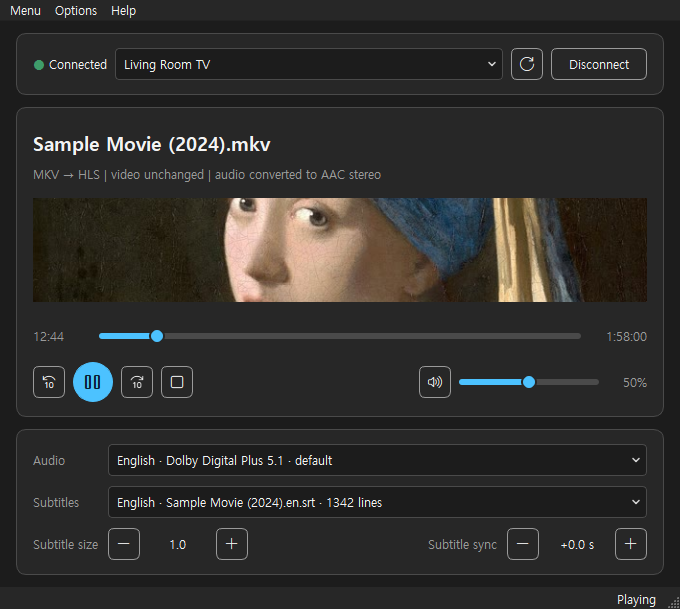
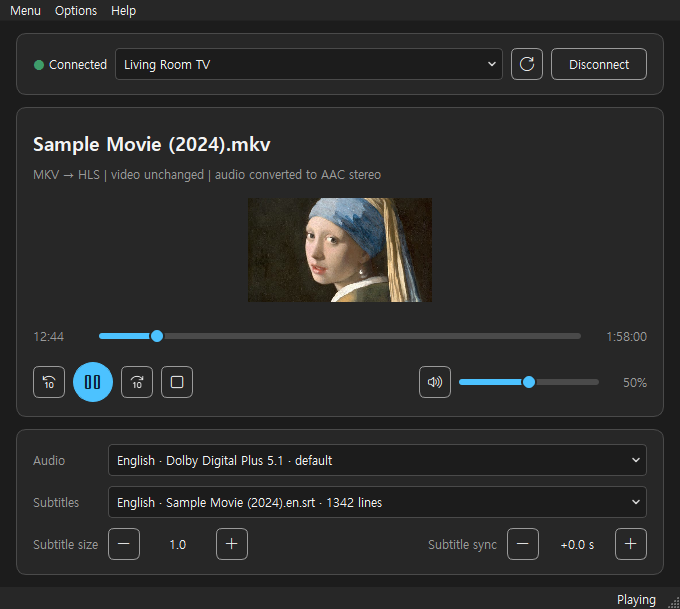
feat: keep the thumbnail's aspect without cropping, trim letterbox bars, extract up to 1920px (D119)

Changed region(s): [[0.3088, 0.312, 0.9574, 0.4992], [0.0309, 0.312, 0.1853, 0.4992], [0.2162, 0.3432, 0.3088, 0.4992]]

diff --git a/core/thumbs.py b/core/thumbs.py
@@ -1,9 +1,10 @@
-"""썸네일 (F9-12, D097, D101, D102): 표지가 있으면 표지, 없으면 영상 길이 10% 지점 한 장면.
-가로 320px JPEG 바이트. 임시 폴더에 만들어 읽은 뒤 바로 지워 캐시에 남기지 않는다.
+"""썸네일 (F9-12, D097, D101, D102, D119): 표지가 있으면 표지, 없으면 영상 길이 10% 지점 한 장면.
+장면은 위아래 검은 띠를 잘라 냄. 가로 최대 1920px(원본이 작으면 원본) JPEG 바이트. 임시 폴더에 만들어 읽은 뒤 바로 지워 캐시에 남기지 않는다.
 실패하면 None (화면은 글자만)."""
 from __future__ import annotations
 
 import logging
+import re
 import subprocess
 import tempfile
 from pathlib import Path
@@ -13,7 +14,7 @@ from .probe import MediaInfo
 from .proc import NO_WINDOW
 
 _LOGGER = logging.getLogger(__name__)
-THUMB_W = 320
+THUMB_W = 1920   # 큰 모니터에서도 선명하게 (D119)
 SCENE_AT = 0.10       # 처음 몇 초는 검은 화면·로고인 경우가 많음
 
 
@@ -27,10 +28,11 @@ def thumbnail(info: MediaInfo, timeout: float = 30.0) -> bytes | None:
                 "-map", f"0:{info.video.index}"]
     else:
         return None
+    crop = _bars(cmd, info, timeout) if info.cover is None else ""
     try:
         with tempfile.TemporaryDirectory(prefix="castplayer-thumb-") as tmp:
             out = Path(tmp) / "thumb.jpg"
-            r = subprocess.run(cmd + ["-frames:v", "1", "-vf", f"scale={THUMB_W}:-2",
+            r = subprocess.run(cmd + ["-frames:v", "1", "-vf", f"{crop}scale='min({THUMB_W},iw)':-2",
                                       "-q:v", "4", str(out)],
                                capture_output=True, timeout=timeout,
                                creationflags=NO_WINDOW, check=False)
@@ -42,5 +44,27 @@ def thumbnail(info: MediaInfo, timeout: float = 30.0) -> bytes | None:
     except (OSError, subprocess.TimeoutExpired) as err:
         _LOGGER.warning("썸네일 만들기 실패: %s", err)
         return None
-    _LOGGER.info("썸네일: %s", "표지" if info.cover is not None else f"{SCENE_AT:.0%} 지점")
+    _LOGGER.info("썸네일: %s%s", "표지" if info.cover is not None else f"{SCENE_AT:.0%} 지점",
+                 " (검은 띠 자름)" if crop else "")
     return data
+
+
+def _bars(cmd: list[str], info: MediaInfo, timeout: float) -> str:
+    """위아래 검은 띠를 자르는 필터 앞부분("crop=…,"), 없으면 "" (D119).
+    가로 전체 너비이고 남는 높이가 절반 이상일 때만 — 어두운 장면을 지나치게 자르지 않음."""
+    v = info.video
+    if v is None or not v.width or not v.height:
+        return ""
+    try:
+        r = subprocess.run(cmd[:1] + ["-v", "info"] + cmd[3:] + [
+            "-frames:v", "5", "-vf", "cropdetect=limit=24:round=2:reset=0", "-f", "null", "-"],
+            capture_output=True, timeout=timeout, creationflags=NO_WINDOW, check=False)
+    except (OSError, subprocess.TimeoutExpired):
+        return ""
+    found = re.findall(r"crop=(\d+):(\d+):(\d+):(\d+)", r.stderr.decode("utf-8", "replace"))
+    if not found:
+        return ""
+    w, h, x, y = map(int, found[-1])
+    if x > 8 or w < v.width - 16 or not v.height // 2 <= h < v.height:
+        return ""
+    return f"crop=iw:{h}:0:{y},"

diff --git a/tools/cast_test.py b/tools/cast_test.py
@@ -2159,11 +2159,19 @@ def _thumb_cases(check: Callable[[str, bool, str], None]) -> None:
             r, g, b = (int(hexcol[i:i + 2], 16) for i in (1, 3, 5))
             return max((r, "red"), (g, "green"), (b, "blue"))[1]
 
-        check("F9-12 표지 있는 MP4 → 표지(빨강), 없는 MKV → 10% 지점 장면(초록), 가로 320px",
+        check("F9-12 표지 있는 MP4 → 표지(빨강), 없는 MKV → 10% 지점 장면(초록), 원본이 작으면 원본 크기 (D119)",
               got["plain.mkv"][0] is None and tone(got["plain.mkv"][2]) == "green"
               and got["cover.mp4"][0] is not None and tone(got["cover.mp4"][2]) == "red"
-              and got["plain.mkv"][1] == got["cover.mp4"][1] == 320,
+              and got["plain.mkv"][1] == 160 and got["cover.mp4"][1] == 64,
               f"{got}")
+
+        # F9-17: 위아래 검은 띠(320×120 내용을 320×180에) → 띠를 잘라 내용 비율
+        bars = "testsrc=size=320x120:rate=24:duration=6,pad=320:180:0:30:black"
+        run("-f", "lavfi", "-i", bars, "-c:v", "libx264", "-preset", "ultrafast", str(t / "bars.mkv"))
+        img = QImage.fromData(thumbs_mod.thumbnail(probe_mod.probe(t / "bars.mkv")) or b"")
+        ratio = img.width() / img.height() if img.height() else 0
+        check("F9-17 위아래 검은 띠를 잘라 내용 비율, 가로는 원본 크기 (D119)",
+              img.width() == 320 and abs(ratio - 320 / 120) <= 0.05, f"{img.width()}×{img.height()}")
 
         w, *_ = _gui()
         w._show_thumb((t / "cover.png").read_bytes())       # pylint: disable=protected-access
@@ -2175,7 +2183,12 @@ def _thumb_cases(check: Callable[[str, bool, str], None]) -> None:
         w.resize(680, w.minimumSizeHint().height() + 300)
         big = _wait_for(w.thumb_label.showing, 1.0)
         tw, th, fw = w.thumb_label.width(), w.thumb_label.height(), w.file_label.width()
+        r = w.thumb_label.target_rect()
+        fits = (r.width() <= tw and r.height() <= th and (r.width() == tw or r.height() == th)
+                and abs(r.width() / max(1, r.height()) - 1.0) <= 0.05)   # cover.png는 정사각형
         _close(w)
+        check("F9-17 창의 썸네일은 그림 비율 그대로, 자르지 않고 가로나 세로 최대 (D119)", fits,
+              f"그림 {r.width()}×{r.height()}, 칸 {tw}×{th}")
         check("F9-12 창이 작으면 썸네일 숨김, 남은 공간이 있으면 보임", small and big,
               f"작을 때 숨김 {small}, 클 때 보임 {big}")
         check("F9-15 윗칸 최소 높이는 글자 두 줄+여백, 늘리면 썸네일이 글자 아래를 가로·세로 가득",

diff --git a/ui/main_window.py b/ui/main_window.py
@@ -14,7 +14,7 @@ from pathlib import Path
 from typing import Callable
 from uuid import UUID
 
-from PySide6.QtCore import QByteArray, QLocale, QRectF, QSize, Qt, QTimer, Signal
+from PySide6.QtCore import QByteArray, QLocale, QRect, QRectF, QSize, Qt, QTimer, Signal
 from PySide6.QtGui import QColor, QFont, QFontMetrics, QIcon, QKeySequence, QPainter, QPixmap, QShortcut
 from PySide6.QtWidgets import (QApplication, QComboBox, QFileDialog, QFrame, QGridLayout,
                                QHBoxLayout, QLabel, QMainWindow, QMessageBox, QProgressBar,
@@ -114,7 +114,7 @@ def _plan_text(plan: Plan, info: MediaInfo) -> str:
 
 
 class _Cover(QWidget):
-    """썸네일: 받은 공간을 비율 유지로 가득 채우고 넘치는 가장자리는 가운데 기준으로 자름 (D118)."""
+    """썸네일: 그림 비율 그대로, 자르지 않고 받은 공간의 가로나 세로 최대까지. 나머지는 배경 (D119)."""
     MIN_H = 48                      # 이보다 낮으면 숨김 [AI]
 
     def __init__(self) -> None:
@@ -129,13 +129,20 @@ class _Cover(QWidget):
     def showing(self) -> bool:
         return self._src is not None and self.isVisible() and self.height() >= self.MIN_H
 
+    def target_rect(self) -> QRect:
+        """그림을 그릴 자리 (가운데)."""
+        if not self._src:
+            return QRect()
+        s = self._src.size().scaled(self.size(), Qt.AspectRatioMode.KeepAspectRatio)
+        return QRect((self.width() - s.width()) // 2, (self.height() - s.height()) // 2,
+                     s.width(), s.height())
+
     def paintEvent(self, _e) -> None:  # noqa: N802 (Qt)
         if not (self._src and self.height() >= self.MIN_H and self.width() > 0):
             return
-        pm = self._src.scaled(self.size(), Qt.AspectRatioMode.KeepAspectRatioByExpanding,
-                              Qt.TransformationMode.SmoothTransformation)
-        QPainter(self).drawPixmap(0, 0, pm, (pm.width() - self.width()) // 2,
-                                  (pm.height() - self.height()) // 2, self.width(), self.height())
+        p = QPainter(self)
+        p.setRenderHint(QPainter.RenderHint.SmoothPixmapTransform)
+        p.drawPixmap(self.target_rect(), self._src)
 
 
 class MainWindow(QMainWindow):

diff --git a/docs/PRD.md b/docs/PRD.md
@@ -186,6 +186,7 @@ Status: approved (2026-11-20) | 단계: 5 확정 | 갱신: 2026-11-20
 - 정상 흐름: Graphite(어둡게)/Paper(밝게) 테마, 기본은 시스템 색 모드를 따름. 옵션 → 테마(시스템/어둡게/밝게)로 바로 바뀌고 `config.json`에 저장 [U] (D076). 배치는 카드 세 개(기기 / 미디어 / 트랙), 여백 16px, 버튼·입력 높이 32px, 오른쪽 끝 한 선, 재생 버튼만 40px 강조색 원형 [U] (D076)
 - 썸네일: 파일에 표지(MP4 표지·MKV 첨부 그림, ffprobe의 attached_pic)가 있으면 표지, 없으면 영상 길이 10% 지점 한 장면. 미디어 카드 윗칸이 최소 높이의 2배 이상일 때만 파일 정보 왼쪽에 보이고, 작으면 글자만. HDR 색 변환 안 함 [U] (D097). 불러오기와 함께 뒤에서 만들어 재생을 기다리게 하지 않고, 실패하면 글자만(로그만), 가로 320px [AI] (D101). 캐시에 남기지 않음(임시 파일로 만들어 메모리로 읽고 바로 지움) [U] (D102)
 - 파일이 열린 윗칸 배치: 파일 이름·송출 방식 두 줄을 위에, 썸네일은 그 아래 남은 공간을 가로·세로 가득 채움(비율 유지, 넘치는 가장자리는 가운데 기준으로 자름). 윗칸 최소 높이는 글자 두 줄 + 위아래 여백 8px(파일 없음의 끌어다 놓기 영역도 같은 높이), 남은 공간이 48px 미만이면 썸네일 숨김. 위 "파일 정보 왼쪽"·"최소 높이의 2배 이상"·"윗칸 가운데"를 대신함 [U] (D118) · 48px [AI]
+- 썸네일 그림 (D118의 "가득 채움·자름"과 D101의 "가로 320px"을 대신함): 그림 비율을 지키고 자르지 않으며 남은 공간의 가로나 세로 중 먼저 닿는 쪽까지 키우고, 나머지는 배경색 여백(가운데 정렬). 영상 장면은 위아래 검은 띠를 ffmpeg `cropdetect`로 찾아 잘라 냄(가로 전체 너비이고 남는 높이가 원래의 절반 이상일 때만, 표지 그림은 자르지 않음). 가로 최대 1920px로 뽑고 원본이 작으면 원본 크기 [U] (D119) · 절반 기준 [AI]
 - 창 크기: 가로·세로 모두 조절. 세로로 늘어난 만큼은 미디어 카드 윗칸(파일 없음: 끌어다 놓기 영역 / 파일 있음: 파일 이름·송출 방식)만 커지고, 다른 카드·진행 막대·조작줄은 높이 고정. 최소 크기는 개편 전 창 높이, 최소 너비는 6개 언어 중 가장 긴 글자가 잘리지 않는 너비 [U] (D094, D095). 미디어 카드 높이는 파일 없음·불러오는 중·재생 중 어느 때나 같음 [U] (D091). 창이 클 때 파일 정보는 윗칸 가운데, 파일 이름은 조금 크게 [AI] (D096)
 - 기기 카드: 상태 점+글, 기기 목록(이름만, IP는 풍선 도움말), 다시 찾기 아이콘, 버튼 하나 — 고른 기기가 연결된 기기면 "연결 해제", 아니면 "연결" (메뉴의 연결 해제도 유지) [U]·규칙 [AI] (D076)
 - 미디어 카드: 파일 이름 굵게, 그 아래 송출 방식을 풀어 쓴 흐린 줄(예: "MKV → HLS 변환 | 영상 그대로 | 음성 AAC 2ch로 변환", 구분자는 세로 막대, 자세한 이유는 풍선 도움말). 파일이 없으면 끌어다 놓기 점선 영역과 강조색 [파일 열기] (미연결이면 비활성, 안내 "먼저 기기를 연결하세요"). 파일이 열린 화면에는 [파일 열기] 버튼이 없음 — 다른 파일은 메뉴 "파일 열기…"(Ctrl+O)·창 어디든 끌어다 놓기 [U] (D105). 불러오는 동안 진행 막대와 단계·%. 조작줄: −10초 / 재생·일시정지 / +10초 / 정지 … 음소거 아이콘 / 볼륨 / % [U] (D076, D093)
@@ -211,7 +212,8 @@ Status: approved (2026-11-20) | 단계: 5 확정 | 갱신: 2026-11-20
   - F9-15 [자동] Given 파일이 열림, 창 최소 크기 / When 세로로 300px 늘림 / Then 최소 크기에서 윗칸은 글자 두 줄+여백 높이이고 썸네일 숨김, 늘리면 썸네일이 글자 아래 남은 공간을 가로·세로 가득 채움 [U] (D118)
   - F9-16 [사람] 어둡게·밝게에서 새 배치(글자 위·썸네일 아래)의 정렬과 썸네일 자름이 자연스러운지 [U] (D118)
   - F9-12 [자동] Given 표지가 있는 시험 파일 / 표지 없는 시험 파일 / When 파일을 열고 창을 크게 함 / Then 표지 / 10% 지점 장면이 썸네일로 보이고, 창이 작으면 숨김. 썸네일 파일이 남지 않음 [U] (D097, D102)
-- 근거: D076, D091~D097, D101, D113, D114, D118
+  - F9-17 [자동] Given 위아래에 검은 띠를 넣은 시험 영상 / When 썸네일을 만듦 / Then 띠가 잘려 내용 비율(±0.05)이고 가로는 원본 크기(1920px 이하). 창에 보일 때 그림 비율이 그대로이고 잘리지 않음 [U] (D119)
+- 근거: D076, D091~D097, D101, D113, D114, D118, D119
 
 ### F10 화면 언어
 - 정상 흐름: 화면 언어 6개 — English, 한국어, 简体中文, 日本語, Español, Русский [U] (D079). 처음에는 Windows 표시 언어를 따르고, 6개에 없으면 English. 중국어는 간체만, 번체 Windows는 English [U] (D080) · [AI] (D086). 옵션 → 언어(맨 위 "시스템 설정 따르기", 각 언어는 자기 이름)로 고르면 다시 켜지 않아도 바로 바뀌고 `config.json`의 `language`에 저장 [U] (D085) · 메뉴 모양 [AI] (D086)
@@ -293,3 +295,4 @@ Status: approved (2026-11-20) | 단계: 5 확정 | 갱신: 2026-11-20
 | 2026-11-20 | F2 내장 자막 뒤에서 추출(3초 기다림, 추출 중 표시, 자동 선택될 때만 다시 불러오기, 중단 규칙), F2-11 고침·F2-12~14 추가, §2.3 자막 추출 단축 줄 삭제(D100 뒤집음). F5 자동 선택 언어가 화면 언어를 따름, F5-7 추가 | D107~D112 |
 | 2026-11-20 | F9 15개 밖 언어는 그 언어 자체 이름, 상태줄 오른쪽에 지금 상태 상시 표시, F9-13·F9-14 추가 | D113, D114 |
 | 2026-11-20 | F2 자막 추출 진행률은 읽은 양, 정지 뒤 다시 재생하면 추출 다시, 종료 때 `cache/` 삭제(F2-15~17). F9 윗칸 배치(글자 위·썸네일 아래 가득), 최소 높이 줄임(F9-15·16) | D115~D118 |
+| 2026-11-20 | F9 썸네일: 비율 유지·자르지 않고 맞춤(여백), 위아래 검은 띠 제거, 가로 최대 1920px. F9-17 추가 | D119 |

diff --git a/docs/discovery/DECISIONS.md b/docs/discovery/DECISIONS.md
@@ -106,7 +106,7 @@
 | D098 | 2026-11-19 | PRD 변경 | 키프레임 분석은 MKV Cues·MP4 stss 목차만 읽는다. 목차가 없거나 깨졌거나 TS·AVI 등이면 지금처럼 파일 전체를 읽는다 | [U] | Q085 | 분석 전에 재생 시작 (HLS VOD 조각 목록을 처음에 줘야 함) / 고정 간격 (복사 모드에서 화면 깨짐) | 확정 |
 | D099 | 2026-11-19 | PRD 변경 | 불러오기 취소: 정보 읽기·키프레임 분석·자막 추출 어느 단계든 진행 줄 오른쪽 [취소] 또는 Esc로 멈춤. 하던 분석은 캐시에 남기지 않고 파일 열기 전 상태로 | [U] | Q085 | 키프레임 분석만 취소 | 확정 |
 | D100 | 2026-11-19 | PRD 변경 | 내장 자막 추출 시간 단축(재생을 먼저 시작하고 자막은 뒤에서)은 이번 범위에서 빼고 다음 버전으로. 자막 트랙이 LOAD 요청에 함께 들어가 나중에 붙이려면 다시 불러오기(재생 끊김)가 필요하고 자동 선택·싱크 흐름이 바뀌어 분량이 큼. 이번에는 취소(D099)와 캐시로 대응 | [U] | Q085 | 이번에 함께 | superseded → D107 |
-| D101 | 2026-11-19 | PRD 변경 | 세부: 썸네일은 불러오기와 함께 뒤에서 만들고 실패하면 글자만(로그만), 가로 320px JPEG로 `cache/thumbs/`. 표지는 ffprobe가 표지 그림(attached_pic)으로 표시한 스트림. MKV 목차의 키프레임 평균 간격이 10초를 넘으면 믿지 않고 전체 읽기. 취소하면 상태줄 "불러오기를 취소했습니다.". 계획에서 작업 10 뒤에 넣고 이미지·README·배포는 그 뒤 | [AI] | Q086 | - | 확정 ← 썸네일 `cache/thumbs/` 저장은 D102로 대체 |
+| D101 | 2026-11-19 | PRD 변경 | 세부: 썸네일은 불러오기와 함께 뒤에서 만들고 실패하면 글자만(로그만), 가로 320px JPEG로 `cache/thumbs/`. 표지는 ffprobe가 표지 그림(attached_pic)으로 표시한 스트림. MKV 목차의 키프레임 평균 간격이 10초를 넘으면 믿지 않고 전체 읽기. 취소하면 상태줄 "불러오기를 취소했습니다.". 계획에서 작업 10 뒤에 넣고 이미지·README·배포는 그 뒤 | [AI] | Q086 | - | 확정 ← 썸네일 `cache/thumbs/` 저장은 D102로 대체 (가로 320px은 D119로 바뀜) |
 | D102 | 2026-11-19 | PRD 변경 | 썸네일은 캐시에 남기지 않는다. ffmpeg가 임시 폴더에 만든 그림을 메모리로 읽고 파일은 바로 지움. 같은 파일을 다시 열면 다시 만든다 | [U] | Q089, Q090 | `cache/thumbs/`에 저장 (D101) | 확정 |
 | D103 | 2026-11-19 | PRD 변경 | 키프레임 분석 결과는 캐시에 남기지 않는다(목차 읽기·전체 읽기 모두). 근거: 실측 1GB TS 1.3초·AVI 0.5초(메모리에 있을 때), 디스크 속도가 정함(HDD 1GB 7~10초 추정), MKV·MP4는 목차 1초 안. 옵션 "캐시 비우기"는 자막 추출 캐시와 예전 키프레임 캐시를 지우는 데 그대로 둠 | [U] | Q089, Q090 | 전체 읽기 때만 캐시 (큰 TS를 자주 다시 열 때만 이득) | 확정 |
 | D104 | 2026-11-19 | PRD 변경 | 전체 테스트 기준 15초 → 20초. 작업마다 전체를 돌리는 규칙은 그대로 (실제 ffmpeg로 시험 영상을 만드는 시험이 늘어 14.9~15.1초) | [U] | Q089 | 작업마다 관련 시험만 / 시험 줄이기 | 확정 |
@@ -124,7 +124,8 @@
 | D115 | 2026-11-20 | PRD 변경 | 자막 추출 진행률은 ffmpeg 프로세스가 읽은 바이트 / 파일 크기(Windows GetProcessIoCounters). 근거: ffmpeg의 out_time이 듬성한 자막 트랙 때문에 8→22→73→98%로 튀어 22%에서 한참 멈춘 듯 보임(실기기·재현) | [AI] | Q100 | ffmpeg out_time 유지 | 확정 |
 | D116 | 2026-11-20 | PRD 변경 | 뒤에서 자막 추출 중 정지했다가 다시 재생하면 재생을 먼저 시작하고 추출을 처음부터 다시(목록 "추출 중"으로). D110의 정지 때 중단은 그대로 | [U] | Q100 | 정지해도 추출 계속 | 확정 |
 | D117 | 2026-11-20 | PRD 변경 | 프로그램을 끌 때 `cache/` 폴더를 지운다. 같은 실행 안에서 다시 연 파일은 자막 캐시를 씀. 근거: 사용자가 디스크에 남지 않기를 원함. 다음 실행에서 같은 파일은 다시 추출(HDD 큰 파일 1분 넘게, 재생은 먼저 시작) | [U] | Q100 | 지금처럼 남김 | 확정 |
-| D118 | 2026-11-20 | PRD 변경 | 파일이 열린 윗칸: 글자 두 줄 위, 썸네일은 아래 남은 공간을 가득(비율 유지·가운데 기준 자름). 최소 높이는 글자 두 줄+여백 8px(파일 없음도 같은 높이), 남은 공간 48px 미만이면 썸네일 숨김. D097의 "파일 정보 왼쪽·2배 이상"과 D096의 "윗칸 가운데"를 대신함 | [U] | Q100 | 썸네일 배경+글자 겹침 / 비율 유지해 안에 맞춤 / 최소 높이 3분의 2 | 확정 · 48px [AI] |
+| D118 | 2026-11-20 | PRD 변경 | 파일이 열린 윗칸: 글자 두 줄 위, 썸네일은 아래 남은 공간을 가득(비율 유지·가운데 기준 자름). 최소 높이는 글자 두 줄+여백 8px(파일 없음도 같은 높이), 남은 공간 48px 미만이면 썸네일 숨김. D097의 "파일 정보 왼쪽·2배 이상"과 D096의 "윗칸 가운데"를 대신함 | [U] | Q100 | 썸네일 배경+글자 겹침 / 비율 유지해 안에 맞춤 / 최소 높이 3분의 2 | 확정 · 48px [AI] (썸네일 맞춤 방식은 D119로 바뀜) |
+| D119 | 2026-11-20 | PRD 변경 | 썸네일: 그림 비율 유지·자르지 않고 남은 공간의 가로나 세로 최대까지, 나머지 배경색 여백. 영상 장면은 위아래 검은 띠를 `cropdetect`로 잘라 냄(가로 전체 너비·남는 높이 절반 이상일 때만, 표지는 안 자름). 가로 최대 1920px(원본이 작으면 원본, 사용자 모니터 3440×1440 기준). 근거: 실기기에서 좌우가 잘리고 검은 띠가 보이며, 320px을 늘려 화질이 나쁨 | [U] | Q104 | 잘라서 꽉 채움(D118) / 1280px / 원본 해상도 그대로 | 확정 · 절반 기준 [AI] |
 
 ## 재논의 금지 규칙
 상태가 '확정'이고 버린 안이 적힌 결정은, 새로운 사실이 없으면 다시 제안하지 않는다.

diff --git a/docs/plans/2026-11-19-languages-readme.md b/docs/plans/2026-11-19-languages-readme.md
@@ -113,6 +113,10 @@ Status: active | 시작: 2026-11-19 | 근거: PRD F10, F9, §2.1 README (D079~D0
   - 확인: 먼저 실패하는 시험 F2-15·16·17·F9-15(F9-12는 새 판정으로), 이미지 눈으로 확인
   - 결과: 2026-11-20 통과 — 자가검사 131/131. 윗칸 최소 77px(전 약 130px), 300px 늘리면 썸네일 614×300
   - 계획과 다른 점: 불러오는 동안 진행 줄은 송출 방식 줄 자리에(둘째 줄 높이 고정, D091 유지). 파일 이름 줄 높이는 큰 글꼴 기준으로 고정(최소 크기 근처에서 1px 흔들림). 끌어다 놓기는 아이콘·안내·버튼 한 줄
+- [x] 22. 썸네일 비율 유지·검은 띠 제거·1920px (F9-17, D119) — `core/thumbs`(`_bars` cropdetect, `scale='min(1920,iw)'`), `ui/main_window._Cover`(가운데 맞춤, `target_rect`), `--shots` 다시 (after: 21)
+  - 확인: 먼저 실패하는 시험 F9-17 2개, F9-12 기대값을 원본 크기로, 실제 영화 두 편
+  - 결과: 2026-11-20 통과 — 자가검사 133/133. 실제 영화: 1920×1040(띠 없음) 0.8초, 1920×1080 → 1920×1036(띠 자름) 0.9초
+  - 실기기 기록: 응답 지연 실험(`--holdsub 90`)은 46초 재생 뒤 TV 오류 → D112 유지(REFERENCE T2). 복사한 프로그램에서 재생 불가 1회는 로그 없어 원인 미확정(-v 로그 요청)
 
 ## 자기 검토
 - 빠진 PRD 기능: 없음 (F10 전체, F9 UI 정리 D091~D096·썸네일 D097, F2 키프레임 목차 D098·취소 D099, 캐시 없음 D102·D103, 시험 기준 D104, §2.1 README·스크린샷·GIF·zip 구성)
